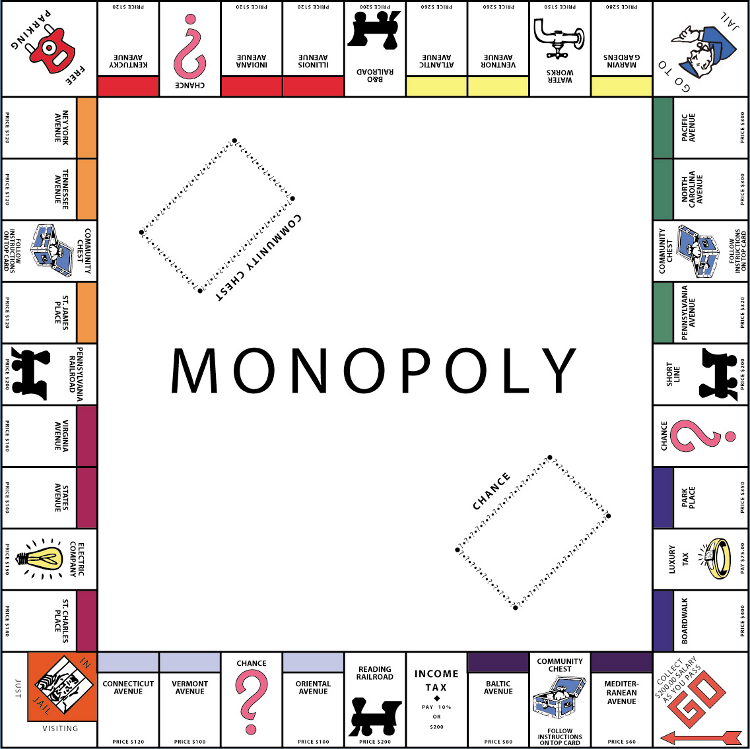
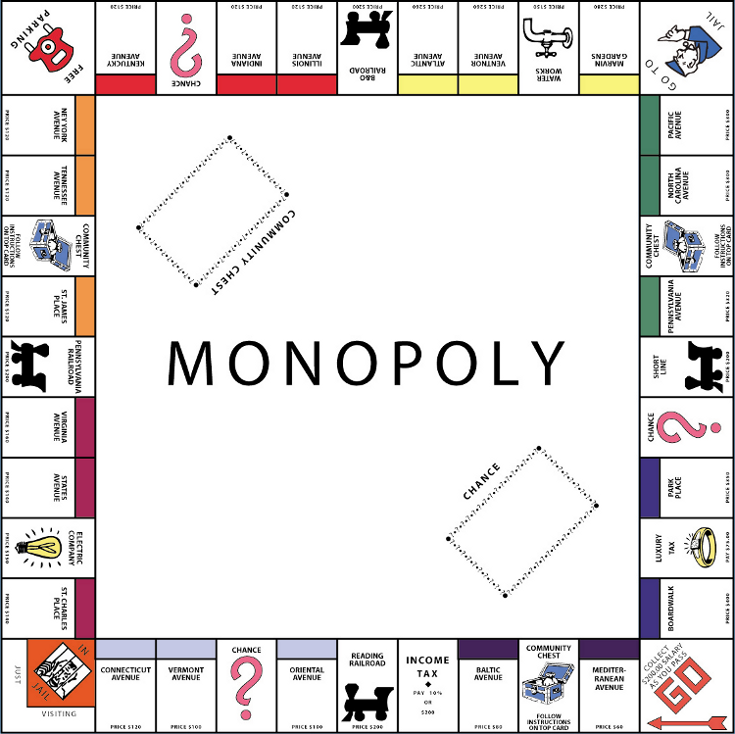
Modified Image

Changed region(s): [[0.0599, 0.8992, 0.1197, 0.9292]]

diff --git a/monopoly/src/common/BoardImage.java b/monopoly/src/common/BoardImage.java
@@ -31,6 +31,6 @@ public class BoardImage extends JPanel{
 	
 	@Override 
 	public void paintComponent(Graphics g){
-		g.drawImage(img, 100, 0, 750, 749, null);
+		g.drawImage(img, 0, 0, 750, 749, null);
 	}
 }
